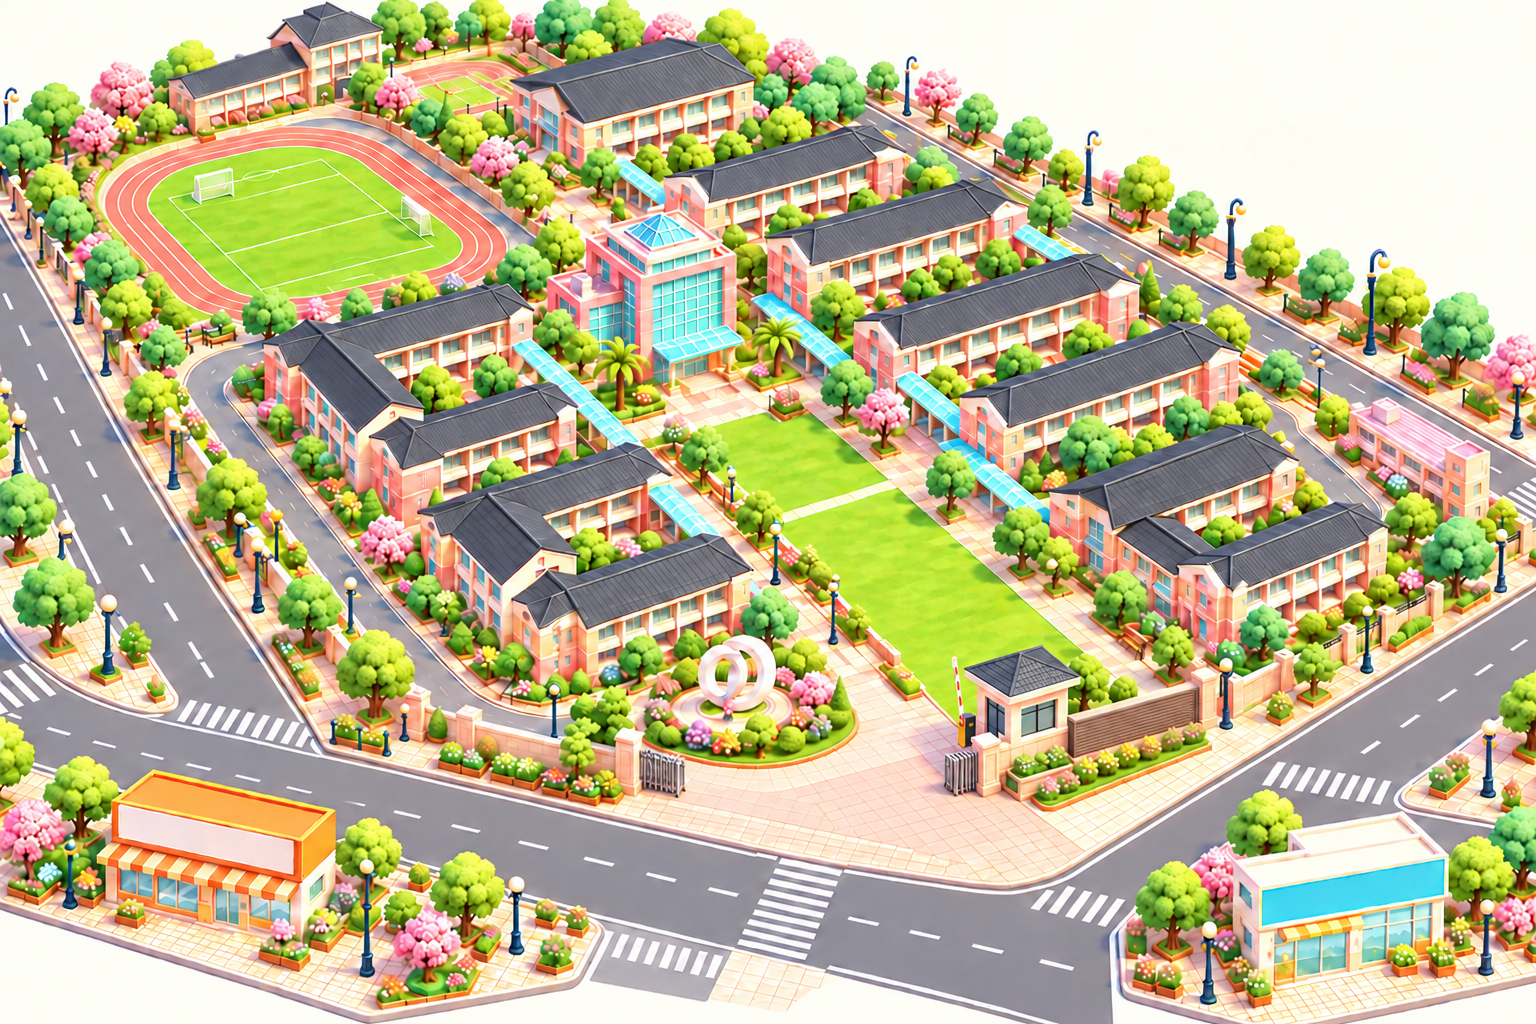
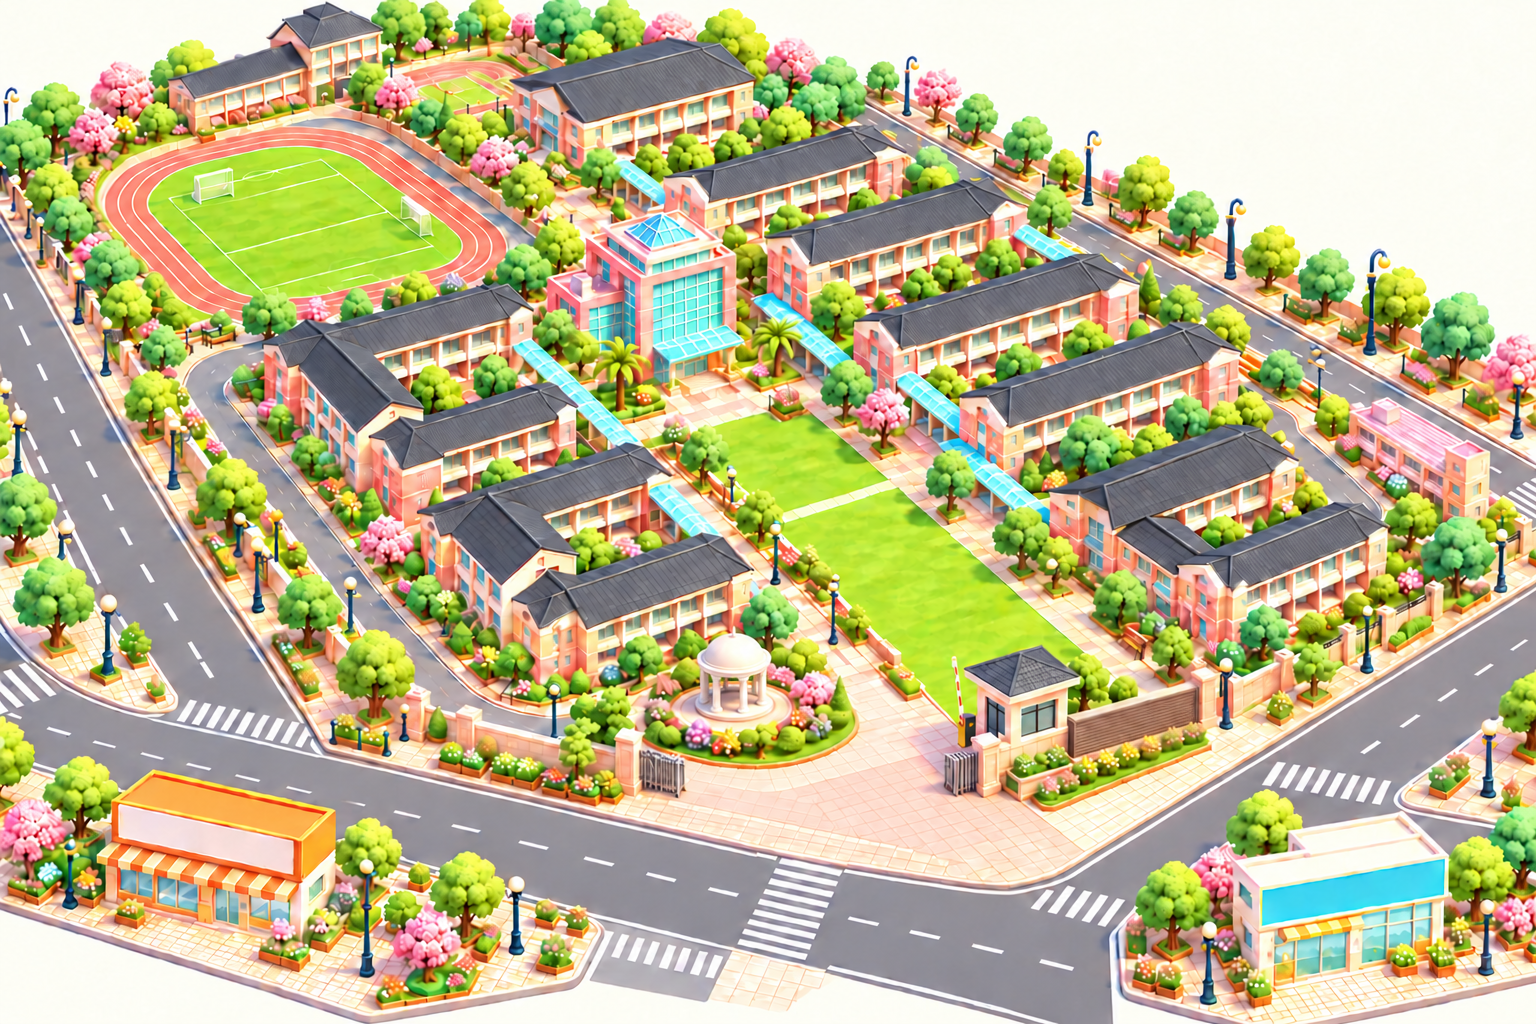
Match entrance landmark to the school's white domed pavilion

diff --git a/index.html b/index.html
@@ -3,7 +3,7 @@
 <head>
 <meta charset="UTF-8"><meta name="viewport" content="width=device-width, initial-scale=1.0">
 <meta name="theme-color" content="#fff3f7"><title>草商探索趣｜今天，換你當草商新生！</title>
-<link rel="preload" as="image" href="assets/campus-macaron.png?v=iron-roofs1">
+<link rel="preload" as="image" href="assets/campus-macaron.png?v=iron-roofs2-pavilion">
 <link rel="preload" as="image" href="assets/groundskeeper-cat.png">
 <link rel="stylesheet" href="assets/campus.css">
 <link rel="stylesheet" href="assets/campus-layout.css?v=readable1">
@@ -51,7 +51,7 @@
 <script src="assets/campus-life.js?v=readable1" defer></script>
 <script src="assets/campus-quests.js?v=readable1" defer></script>
 <script src="assets/campus-art.js" defer></script>
-<script src="assets/campus-map.js?v=readable1" defer></script>
+<script src="assets/campus-map.js?v=pavilion1" defer></script>
 <script src="assets/campus-missions.js" defer></script>
 <script src="assets/campus-guides.js?v=readable1" defer></script>
 <script src="assets/campus-app.js?v=readable1" defer></script>

diff --git a/assets/campus-map.js b/assets/campus-map.js
@@ -1,7 +1,7 @@
 'use strict';
 // Building numbers are counted from the main entrance toward the rear campus.
 // All scenery, hit areas and resident paths share the 1536 × 1024 art coordinates.
-const CAMPUS_ART='assets/campus-macaron.png?v=iron-roofs1';
+const CAMPUS_ART='assets/campus-macaron.png?v=iron-roofs2-pavilion';
 const campusPoint=(u,v,z=0)=>[u*1240/1536,v*815/1024-z];
 const CAMPUS_PLACES={
  'left-1':{side:'left',order:1,name:'左邊第一棟',departments:['service'],anchor:[591,558],polygons:[[[421,488],[627,438],[687,474],[478,534]],[[421,488],[477,506],[559,570],[511,611]],[[512,611],[706,542],[762,579],[564,661]]]},

diff --git a/README.md b/README.md
@@ -84,7 +84,7 @@ CAMPUS_BASE_URL=http://127.0.0.1:8000/ node tests/browser-campus-game.cjs
 
 ## 依參考圖製作馬卡龍粉色校景
 
-校景改為參考圖的斜向鳥瞰配置：左後方橢圓操場、後方活動中心、中央玻璃樓、左右教室與三合院庭院、縱向中央草地、前方雕塑花園、校門及周邊道路／斑馬線。校外左邊保留南臺灣土魠魚羹及使用者提供的商標描圖，右邊保留萊爾富。各科位置是遊戲導覽分配，不能作正式教室定位。
+校景改為參考圖的斜向鳥瞰配置：左後方橢圓操場、後方活動中心、中央玻璃樓、左右教室與三合院庭院、縱向中央草地、前方半圓頂涼亭花園、校門及周邊道路／斑馬線。校外左邊保留南臺灣土魠魚羹及使用者提供的商標描圖，右邊保留萊爾富。各科位置是遊戲導覽分配，不能作正式教室定位。
 
 `assets/campus-macaron.png` 為依使用者參考圖生成的原創場景插畫（1536 × 1024，約 3 MB），使用草莓牛奶粉、蜜桃粉、鐵深灰斜屋頂、奶油白校舍與薄荷綠草地。背景不含靜態人物；學生、客服 NPC 由 SVG 即時繪製，制服與材質保留，學生新增六種表情並在換路線時隨機變換；中鼎文的髮箍與滑板車造型保留。插畫以完整影像載入；放大採圖像縮放，非可旋轉的即時 3D 模型。
 
@@ -111,3 +111,5 @@ CAMPUS_BASE_URL=http://127.0.0.1:8000/ node tests/browser-campus-reading-motion.
 ```
 
 檢查八科介紹的課名來源、手機與桌機字級、放大先於介紹及取消流程、貼地輪組、踏步與轉輪、減少動態，以及兩個固定隨機種子的 60Hz 模擬，驗證逐幀連續與客服避讓距離。
+
+門口花園原本的雙圓環雕塑，已依提供的實景照片改為白色半圓頂、環形樑及圓柱支撐的開放式涼亭造型，保留既有花園位置與周邊配置。
